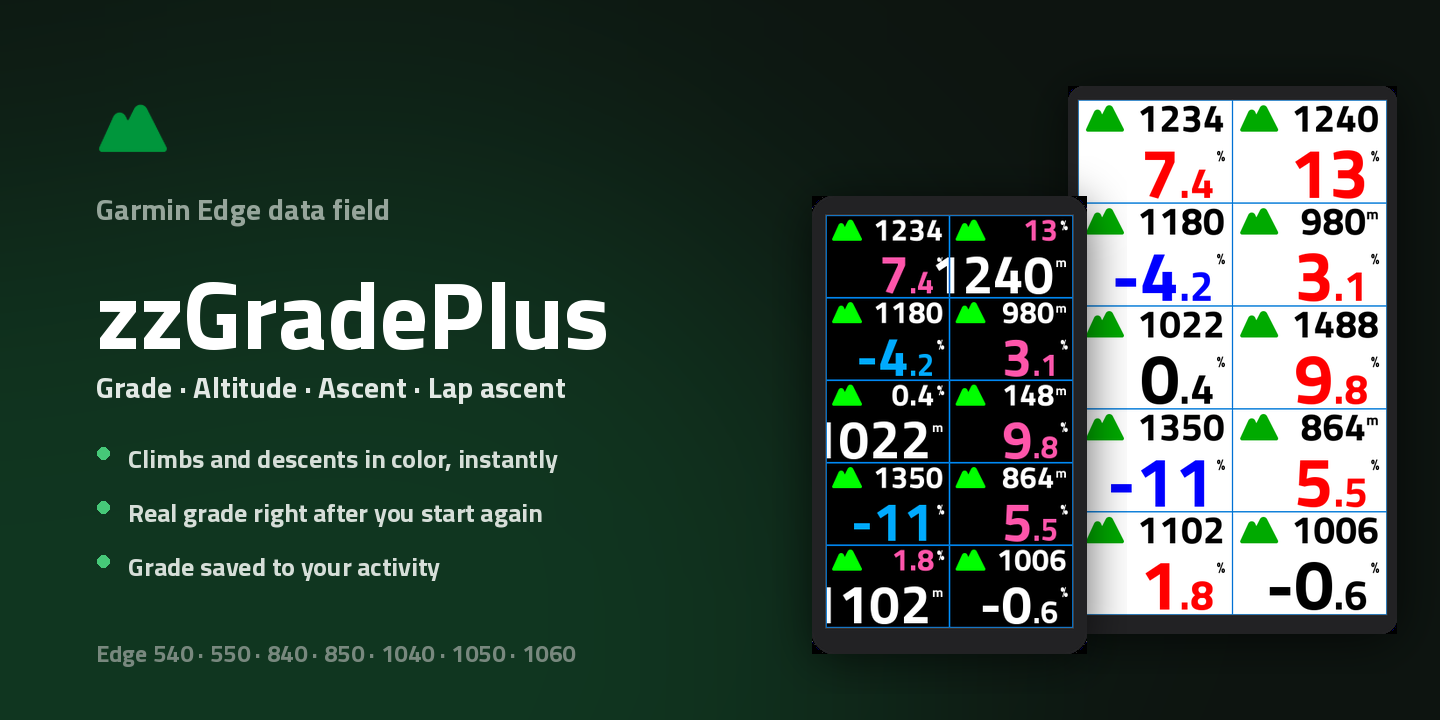
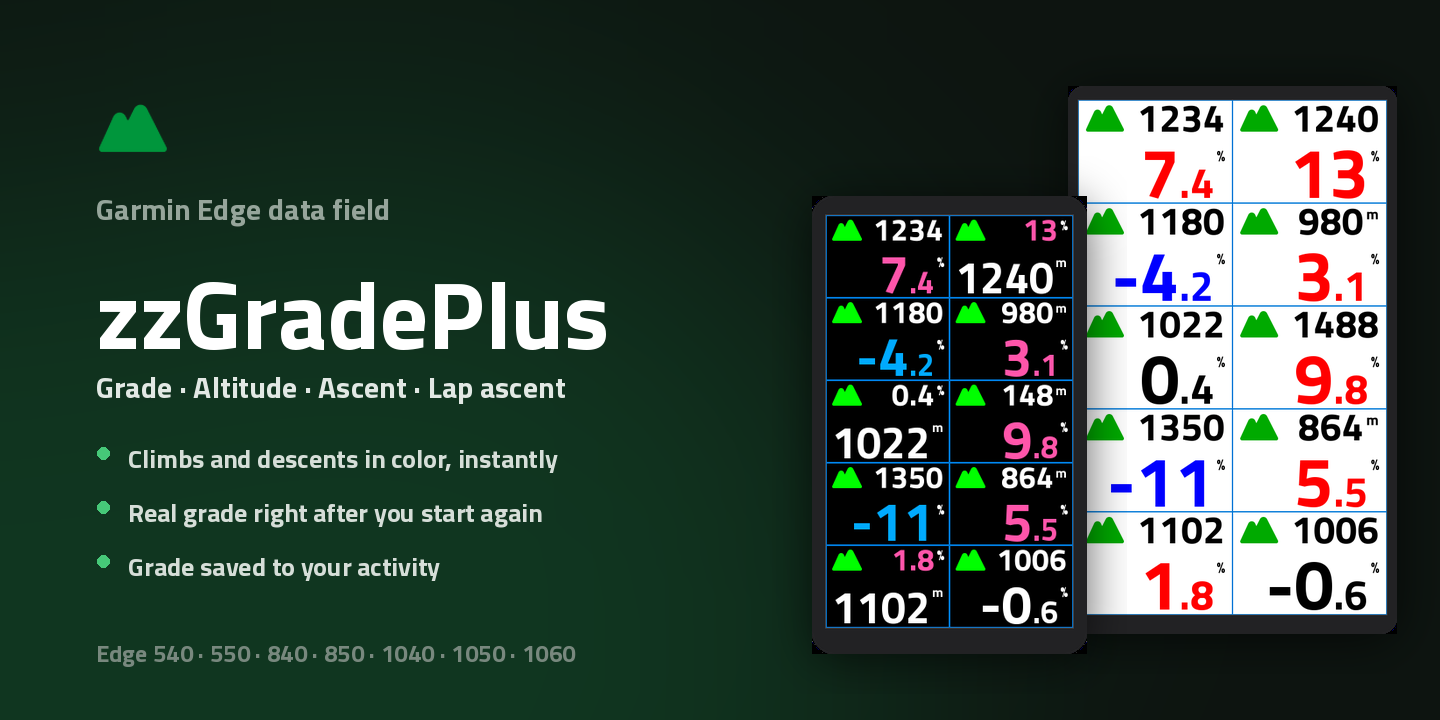
zzGradePlus 1.0.3 - 숫자가 칸을 넘지 않게
- 칸에 실제로 몇 자리가 들어가는지 재서 글꼴을 고른다 (기존에는 경사도 기준 고정)
- C10Main4 추가: 10칸 레이아웃에서 4자리 고도가 꽉 차게 (1050 기준 45 -> 59)
- 글꼴 사다리 4단: C10Main > C10Main4 > C10MainDec > C10Sub, 모두 바닥선 맞춤
- 안 들어가면 단위를 숨기고, 그래도 안 되면 천 단위로 (12345 m -> 12.3 km / 12.3 kft)
- 단위 폰트에 k 추가, filter %mft -> %mftk
- 단위 폭을 ft/m 중 넓은 쪽 기준으로 (미터법에서 1px 겹치던 문제)
- 값이 밀고 들어오면 좌상단 산 아이콘 생략
- 스토어 소개글: 최신 버전이 위로, v1.0.3 추가
- 스토어 이미지 재생성

Claude-Session: https://claude.ai/code/session_01F7oGkjtvqXoiV9isom8s6b

diff --git a/store/make_assets.py b/store/make_assets.py
@@ -95,6 +95,12 @@ NIGHT_HIGH, NIGHT_LOW = rgb(COLORS[2]), rgb(COLORS[7])    # 분홍 / 하늘
 THR10 = 10                                                # 기본 1 %
 
 
+def kilo_str(v):
+    """1만이 넘어 칸에 안 들어갈 때 12345 -> '12.3'."""
+    a = abs(v)
+    return ("-" if v < 0 else "") + str(a // 1000) + "." + str((a % 1000) // 100)
+
+
 def grade_parts(g10):
     sign = "-" if g10 < 0 else ""
     a = abs(g10)
@@ -133,14 +139,25 @@ def draw_cell(img, box, F, screen_w, cell, night, unit="m"):
 
     if not wide:
         fMain, fDec = F["C10Main"], F["C10MainDec"]
+        fMain4 = F.get("C10Main4", fDec)
         fSub, fUM, fUS = F["C10Sub"], F["C10UnitMain"], F["C10UnitSub"]
         ug = max(2, int(w * 0.02))
         yMain = B - fMain.base
         yDec = yMain + fMain.base - fDec.base
+        yMain4 = yMain + fMain.base - fMain4.base
         xMainG = R - fUM.width("%") - ug
-        xMainA = R - fUM.width("ft") - ug
+        xMainA = R - max(fUM.width("ft"), fUM.width("m")) - ug
+        nMain = max(1, (xMainA - L) * 4 // max(1, fMain.width("8888")))
+        nMain4 = max(1, (xMainA - L) * 4 // max(1, fMain4.width("8888")))
+        nMainDec = max(1, (xMainA - L) * 4 // max(1, fDec.width("8888")))
+        nMainSub = max(1, (xMainA - L) * 4 // max(1, fSub.width("8888")))
+        nMainBare = max(1, (R - L) * 4 // max(1, fSub.width("8888")))
+        yMainSub = yMain + fMain.base - fSub.base
+        xMainK = R - max(fUM.width("km"), fUM.width("kft")) - ug
+        nSubPlain = max(1, (R - L) * 4 // max(1, fSub.width("8888")))
+        xSubK = R - max(fUS.width("km"), fUS.width("kft")) - ug
         wDec = fDec.width(".0")
-        xSubA = R - fUS.width("ft") - ug
+        xSubA = R - max(fUS.width("ft"), fUS.width("m")) - ug
         xSubG = R - fUS.width("%") - ug
         xSubMax4 = xSubA - fSub.width("8888") - fSub.width("@")
 
@@ -152,20 +169,39 @@ def draw_cell(img, box, F, screen_w, cell, night, unit="m"):
             fMain.draw(img, x0 + x, y0 + yMain, gi, mc, "right")
             fUM.draw(img, x0 + R, y0 + yMain, "%", fg, "right")
         else:
-            if len(mains) >= 5:
-                fDec.draw(img, x0 + xMainA, y0 + yDec, mains, fg, "right")
+            s, u, xa = mains, unit, xMainA
+            n = len(s)
+            if n > nMainSub:
+                if n <= nMainBare:
+                    u, xa = "", R           # 단위를 빼면 들어간다
+                else:
+                    s = kilo_str(cell.get("v", 0))
+                    u = "km" if unit == "m" else "kft"
+                    xa = xMainK
+                    n = len(s)
+            if n <= nMain:
+                fMain.draw(img, x0 + xa, y0 + yMain, s, fg, "right")
+            elif n <= nMain4:
+                fMain4.draw(img, x0 + xa, y0 + yMain4, s, fg, "right")
+            elif n <= nMainDec:
+                fDec.draw(img, x0 + xa, y0 + yDec, s, fg, "right")
             else:
-                fMain.draw(img, x0 + xMainA, y0 + yMain, mains, fg, "right")
-            fUM.draw(img, x0 + R, y0 + yMain, unit, fg, "right")
+                fSub.draw(img, x0 + xa, y0 + yMainSub, s, fg, "right")
+            if u:
+                fUM.draw(img, x0 + R, y0 + yMain, u, fg, "right")
 
         tops = gs if second == GRADE else ("" if second == NONE else subs)
-        if len(tops) < 5:
+        if (R - fSub.width(tops)) > (L + fSub.width("@")):
             fSub.draw(img, x0 + L, y0 + T, "@", ic)
         if second == NONE:
             return
         if second == GRADE:
             fSub.draw(img, x0 + xSubG, y0 + T, gs, mc, "right")
             fUS.draw(img, x0 + R, y0 + T, "%", fg, "right")
+            return
+        if len(tops) > nSubPlain:                 # 단위를 빼도 안 들어가면 천 단위로
+            fSub.draw(img, x0 + xSubK, y0 + T, kilo_str(cell.get("v2", 0)), fg, "right")
+            fUS.draw(img, x0 + R, y0 + T, "km" if unit == "m" else "kft", fg, "right")
             return
         if len(tops) < 4 or xSubMax4 >= L:
             fSub.draw(img, x0 + xSubA, y0 + T, subs, fg, "right")
@@ -201,9 +237,10 @@ def draw_cell(img, box, F, screen_w, cell, night, unit="m"):
     mid = w // 2
     xc1 = (L + mid - gap // 2) // 2
     xc2 = (mid + gap // 2 + R) // 2
+    nVal = max(1, ((mid - gap // 2) - L) * 4 // max(1, fVal.width("8888")))
 
     def val(xc, s, col):
-        if len(s) >= 5:
+        if len(s) > nVal:
             fVal5.draw(img, x0 + xc, y0 + yVal5, s, col, "center")
         else:
             fVal.draw(img, x0 + xc, y0 + yVal, s, col, "center")
